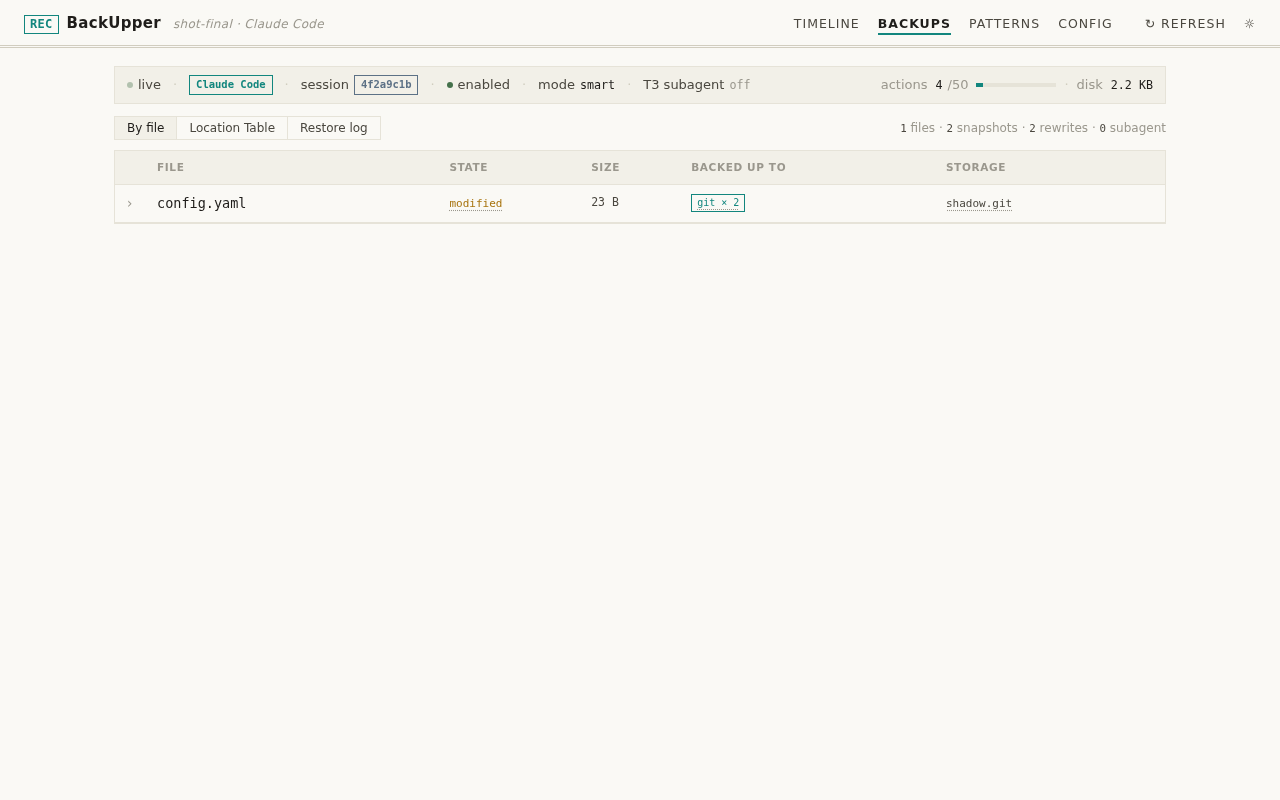
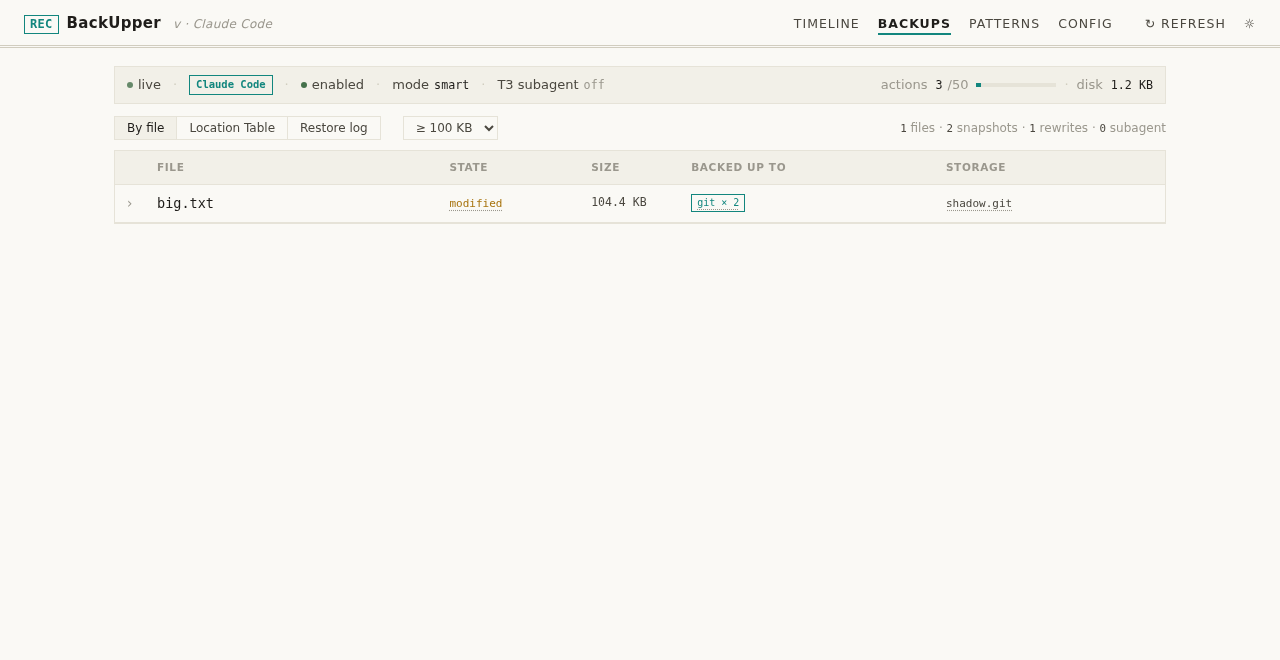
feat(dashboard): drop raw recovery-command dumps, fold subagent capture, size filter
- Command rewrite keeps raw/revised only; the 'Reverses on restore'
  GIT_DIR command list and the 'Recovery plan' dump are gone from the
  detail pane (still on disk in metadata.json for the restore engine)
- Subagent capture collapses by default (summary chips inline:
  N files · N recovery cmds), description one click away
- Backups by-file view gains a size filter (any / ≥10KB / ≥100KB /
  ≥1MB) with a hidden-count note; select only shows in file view

diff --git a/src/dashboard/static/index.html b/src/dashboard/static/index.html
@@ -279,6 +279,8 @@
   .bk-viewtoggle button + button { border-left: 1px solid var(--line); }
   .bk-viewtoggle button:hover { color: var(--text); }
   .bk-viewtoggle button.active { background: var(--bg-soft); color: var(--text); }
+  #bk-size-filter { margin-left: 10px; font-size: 12px; padding: 3px 8px; background: var(--bg); border: 1px solid var(--line); color: var(--text-dim); font-family: inherit; cursor: pointer; }
+  #bk-size-filter:hover { border-color: var(--line-strong); color: var(--text); }
   .bk-summary { margin-left: auto; font-size: 12px; color: var(--muted); }
   .bk-summary code { color: var(--text-dim); font-family: "JetBrains Mono", monospace; }
   .bk-table { border: 1px solid var(--line); }
@@ -535,6 +537,12 @@
         <button id="bk-view-storage">Location Table</button>
         <button id="bk-view-log">Restore log</button>
       </div>
+      <select id="bk-size-filter" title="Show only files whose backed-up size is at least this">
+        <option value="0">any size</option>
+        <option value="10240">≥ 10 KB</option>
+        <option value="102400">≥ 100 KB</option>
+        <option value="1048576">≥ 1 MB</option>
+      </select>
       <span class="bk-summary" id="bk-summary"></span>
     </div>
     <div class="bk-table" id="bk-table">
@@ -1071,14 +1079,13 @@ function renderDetail(seq) {
     ? `<div class="detail-section"><h4>${title}</h4>${body}</div>`
     : "";
 
-  let subagentBody = "";
+  let subagentSection = "";
   if (a.subagent) {
     const meta = [];
     if (a.subagent.externalShadowFileCount > 0) meta.push(`${a.subagent.externalShadowFileCount} files`);
     if (a.subagent.recoveryCommandCount > 0)    meta.push(`${a.subagent.recoveryCommandCount} recovery cmds`);
     if (a.subagent.liveRestore)                 meta.push(`live-restore`);
-    subagentBody = `<div class="kv" style="font-size:11.5px;font-weight:400">${escapeHtml(a.subagent.description || "")}</div>
-      ${meta.length ? `<div class="kv" style="color:var(--muted);margin-top:3px;font-size:11px">${meta.join(" · ")}</div>` : ""}`;
+    subagentSection = `<details class="detail-acc"><summary>Subagent capture${meta.length ? `<span class="hint">${meta.join(" · ")}</span>` : ""}</summary><div class="acc-body"><div class="kv" style="font-size:11.5px;font-weight:400">${escapeHtml(a.subagent.description || "")}</div></div></details>`;
   }
 
   let filesBody = "";
@@ -1103,7 +1110,7 @@ function renderDetail(seq) {
 
   pane.innerHTML = headerHtml + instr
     + `<div id="detail-extra"></div>`
-    + sec("Subagent capture", subagentBody)
+    + subagentSection
     + sec(`Workspace files${a.files && a.files.length ? ` <span class="sec-hint">${a.files.length}</span>` : ""}`, filesBody)
     + sec(`<span id="diff-label">Diff vs current</span>`, diffBody)
     + (historySection || "");
@@ -1236,15 +1243,7 @@ async function loadDiff(seq) {
       const origCmd = (pr.original || "").replace(/^\w+\((.*)\)$/s, "$1") || pr.original;
       let rw = `<div class="kv" style="margin-bottom:3px;font-size:11.5px;font-weight:400"><span style="color:var(--muted)">raw command&nbsp;</span> <span class="strike" style="text-decoration-color:var(--danger);color:var(--text)">${escapeHtml(origCmd)}</span></div>
         <div class="kv" style="font-size:11.5px;font-weight:400"><span style="color:var(--muted)">revised command&nbsp;</span> <span style="color:var(--success)">${escapeHtml(pr.description || "intercepted")}</span></div>`;
-      if (pr.recovery && pr.recovery.length) {
-        rw += `<div class="kv" style="color:var(--muted);text-transform:uppercase;font-size:10px;letter-spacing:0.06em;margin-top:8px;margin-bottom:3px">Reverses on restore</div>
-          <ol style="margin:0;padding-left:20px;font-size:11px;color:var(--text-dim);line-height:1.5">${pr.recovery.map((c) => `<li>${escapeHtml(c)}</li>`).join("")}</ol>`;
-      }
       extraHtml += `<div class="detail-section"><h4><span class="term"${helpAttr("policy_rewrite")}>Command rewrite</span></h4>${rw}</div>`;
-    }
-    if (d.subagent && d.subagent.recovery && d.subagent.recovery.length) {
-      extraHtml += accx(`Recovery plan <span class="hint">${d.subagent.recovery.length} command${d.subagent.recovery.length === 1 ? "" : "s"}${d.subagent.liveRestore ? " · live-restore" : ""}</span>`,
-        `<ol style="margin:0;padding-left:20px;font-size:11px;color:var(--text-dim);line-height:1.5">${d.subagent.recovery.map((c) => `<li>${escapeHtml(c)}</li>`).join("")}</ol>`);
     }
     if (d.remoteState) {
       extraHtml += accx("Captured remote state",
@@ -1313,11 +1312,17 @@ function setBkView(v) {
   for (const id of ["file", "storage", "log"]) {
     $("bk-view-" + id).classList.toggle("active", id === v);
   }
+  $("bk-size-filter").style.display = v === "file" ? "" : "none";
   renderBackups();
 }
 $("bk-view-file").onclick    = () => setBkView("file");
 $("bk-view-storage").onclick = () => setBkView("storage");
 $("bk-view-log").onclick     = () => setBkView("log");
+let bkSizeMin = 0;
+$("bk-size-filter").addEventListener("change", (e) => {
+  bkSizeMin = parseInt(e.target.value, 10) || 0;
+  renderBackups();
+});
 
 function loadBackups() {
   bkSizeData = null;           // invalidate — sizes change when actions change
@@ -1577,9 +1582,11 @@ function renderBackups() {
     <span>Backed up to</span><span>Storage</span>
   </div>`;
 
+  let hidden = 0;
   for (const [file, acts] of entries) {
     const dp = bkDisplayPath(file, acts);
     const state = bkFileState(acts);
+    if (bkSizeMin > 0 && (sizeByBase[file] || 0) < bkSizeMin) { hidden++; continue; }
     let g = 0, t = 0, s = 0;
     const labels = new Set();
     for (const a of acts) {
@@ -1610,6 +1617,9 @@ function renderBackups() {
       <span class="bk-storage${TERM_HELP[storageLabel] ? " term" : ""}" title="${escapeHtml(TERM_HELP[storageLabel] || storageLabel)}">${escapeHtml(storageLabel)}</span>
     </div>`;
     html += `<div class="bk-detail">${bkDetailHtml(file, acts)}</div>`;
+  }
+  if (hidden > 0) {
+    html += `<div class="bk-size-note" style="border-top:1px solid var(--line);border-bottom:none">${hidden} file${hidden === 1 ? "" : "s"} below the size filter hidden.</div>`;
   }
   table.innerHTML = html;
 
